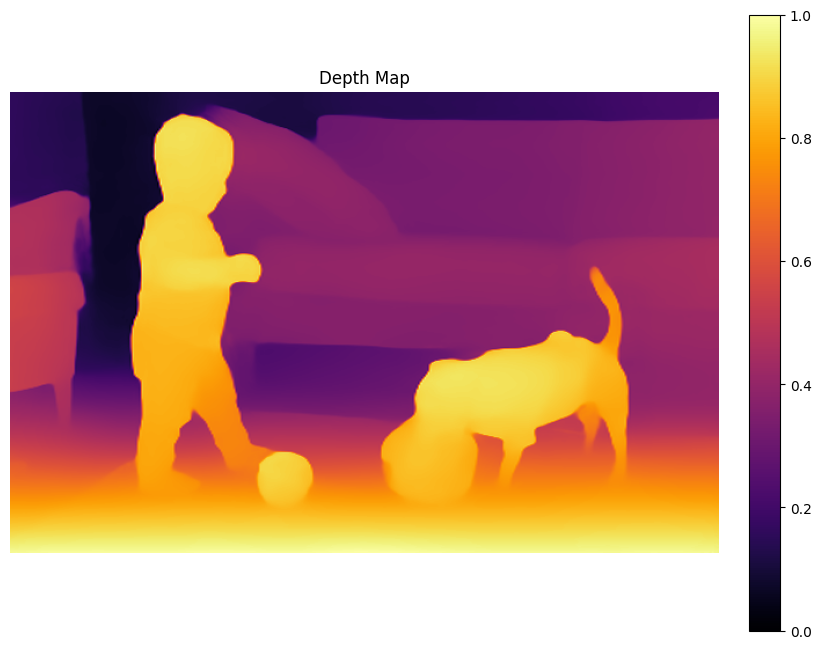
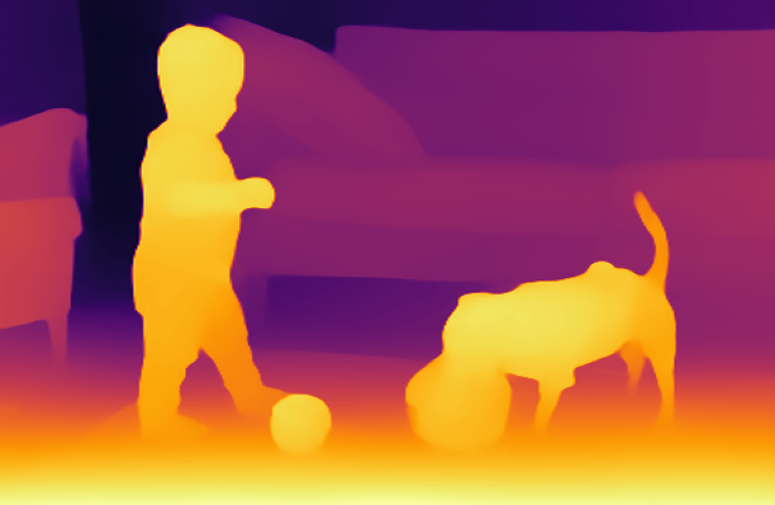
:memo: update README.md

diff --git a/01_open_source_models_hugging_face/helpers.py b/01_open_source_models_hugging_face/helpers.py
@@ -85,7 +85,7 @@ def show_mask_on_image(raw_image, mask, output_path=None, return_image=False, sh
     return result_image
 
 
-def show_depth_map(raw_image, depth_map, output_path=None, return_image=False, colormap='inferno', show_original=True):
+def show_depth_map(raw_image, depth_map, output_path=None, return_image=False, colormap='inferno', show_original=True, show_colorbar=False):
     """
     Display or save a depth map visualization.
 
@@ -97,6 +97,7 @@ def show_depth_map(raw_image, depth_map, output_path=None, return_image=False, c
         colormap: Matplotlib colormap name (default: 'inferno')
         show_original: If True, display side-by-side (original + depth);
                       If False, display depth map only (default: True)
+        show_colorbar: If True, display the colorbar scale legend (default: False)
 
     Returns:
         PIL Image if return_image=True, otherwise None
@@ -137,15 +138,15 @@ def show_depth_map(raw_image, depth_map, output_path=None, return_image=False, c
 
     # Show depth map with colormap (works for both modes)
     im = depth_ax.imshow(depth_normalized, cmap=colormap)
-    depth_ax.set_title("Depth Map")
     depth_ax.axis("off")
 
-    # Add colorbar
-    plt.colorbar(im, ax=depth_ax, fraction=0.046, pad=0.04)
+    # Add colorbar if requested
+    if show_colorbar:
+        plt.colorbar(im, ax=depth_ax, fraction=0.046, pad=0.04)
 
     # Save or display
     if output_path:
-        plt.savefig(output_path, bbox_inches='tight', pad_inches=0.1)
+        plt.savefig(output_path, bbox_inches='tight', pad_inches=0)
         print(f"Saved depth map to: {output_path}")
     else:
         plt.show()

diff --git a/01_open_source_models_hugging_face/11-image-retrieval.py b/01_open_source_models_hugging_face/11-image-retrieval.py
@@ -1,0 +1,44 @@
+# Load model directly
+from transformers import AutoProcessor, BlipForImageTextRetrieval
+from PIL import Image
+import torch
+from pathlib import Path
+
+processor = AutoProcessor.from_pretrained("Salesforce/blip-itm-base-coco")
+model = BlipForImageTextRetrieval.from_pretrained("Salesforce/blip-itm-base-coco")
+
+# Load an image
+image_path = Path("..") / "data" / "sample.png"
+image = Image.open(image_path)
+
+# Define text queries to match against the image
+texts = [
+    "a kid playing with a ball and a dog",
+    "a dog playing in the park",
+    "a cat sleeping on a couch",
+    "a person riding a bicycle",
+    "a beach with palm trees",
+    "a dog next to a couch",
+]
+
+print("Image-Text Matching Results:")
+print("-" * 50)
+
+# Process each text query
+for text in texts:
+    inputs = processor(
+        images=image,
+        text=text,
+        return_tensors="pt",
+    )
+
+    with torch.no_grad():
+        outputs = model(**inputs)
+
+    # Get the image-text matching score
+    itm_score = outputs.itm_score
+    match_probability = torch.nn.functional.softmax(itm_score, dim=1)[:, 1].item()
+
+    print(f"Text: {text}")
+    print(f"Match probability: {match_probability:.4f}")
+    print("-" * 50)

diff --git a/01_open_source_models_hugging_face/12-image-captioning.py b/01_open_source_models_hugging_face/12-image-captioning.py
@@ -1,0 +1,17 @@
+# Use a pipeline as a high-level helper
+from transformers import pipeline
+from pathlib import Path
+from PIL import Image
+
+pipe = pipeline("image-to-text", model="Salesforce/blip-image-captioning-base")
+
+# Load the image
+image_path = Path("..") / "data" / "sample.png"
+image = Image.open(image_path)
+
+# Generate caption
+result = pipe(image)
+
+# Display results
+print("Image Caption:")
+print(result[0]["generated_text"])

diff --git a/01_open_source_models_hugging_face/10-depth-estimation.py b/01_open_source_models_hugging_face/10-depth-estimation.py
@@ -44,4 +44,4 @@ if __name__ == '__main__':
     depth_map = prediction.squeeze().cpu().numpy()
 
     # Visualize and save
-    show_depth_map(raw_image, depth_map, output_path=output_path, show_original=False)
+    show_depth_map(raw_image, depth_map, output_path=output_path, show_original=False, show_colorbar=False)

diff --git a/README.md b/README.md
@@ -174,7 +174,28 @@ This is sometimes called class-agnostic segmentation.
   - commonly use in autonomous driving
   - [Intel/dpt-hybrid-midas](https://huggingface.co/Intel/dpt-hybrid-midas)
 
-### 2. Stanford CS231N
+- what are multimodal models? 
+  - when a task requires a model to be able to take as an input more than one type of data, 
+  - let's say an image and a sentence, we'll call it multimodal.
+  ![img_300.png](img_300.png)
+
+- what are some common multimodal tasks?
+  - image captioning
+  - image to text matching
+  - visual Q&A
+  - zero-shot image classification
+
+- image - text retrieval
+  - [Salesforce/blip-itm-base-coco](https://huggingface.co/Salesforce/blip-itm-base-coco)
+  ![img_301.png](img_301.png)
+
+- image - captioning
+  - [Salesforce/blip-image-captioning-base](https://huggingface.co/Salesforce/blip-image-captioning-base)
+
+### 2. Attention in Transformers: Concepts and Code in PyTorch
+
+
+### 3. Stanford CS231N
 
 - [Python Numpy Tutorial](https://cs231n.github.io/python-numpy-tutorial)
 - [Repository](https://github.com/cs231n/cs231n.github.io)
